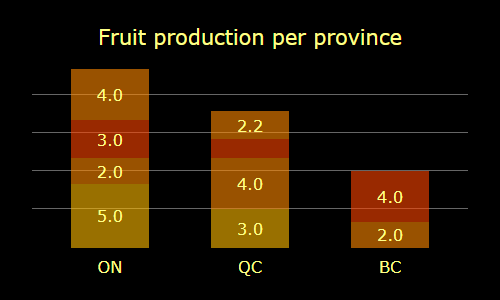
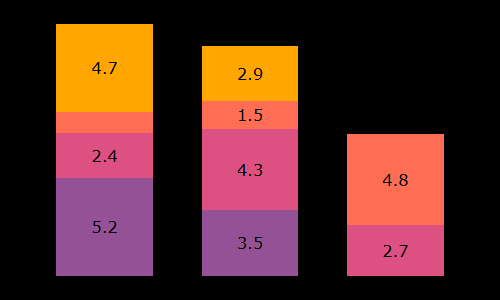
Updated README.md with new images and examples

diff --git a/README.md b/README.md
@@ -47,9 +47,9 @@ Create a one dimensional or two dimensional array of values:
 const data1D = [5.2, 1.3, 10.9, 4.1]
 
 const data2D = [
-  [5, 2, 3, 4],
-  [3, 4, 1.5, 2.2],
-  [0, 2, 4],
+  [5.2, 2.4, 1.1, 4.7],
+  [3.5, 4.3, 1.5, 2.9],
+  [0, 2.7, 4.8],
 ]
 ```
 
@@ -109,9 +109,9 @@ const data1D = [5.2, 1.3, 10.9, 4.1]
 
 ```javascript
 const data2D = [
-  [5, 2, 3, 4],
-  [3, 4, 1.5, 2.2],
-  [0, 2, 4],
+  [5.2, 2.4, 1.1, 4.7],
+  [3.5, 4.3, 1.5, 2.9],
+  [0, 2.7, 4.8],
 ]
 ```
 
@@ -123,8 +123,21 @@ Options can be set using compact dotted keys:
 const options = {
   'chart.width': '500px',
   'chart.height': '300px',
-  'chart.color': '#ff8',
-  ...
+  'chart.color': '#f8ea8c',
+  'chart.background-color': 'black',
+  'chart.font-family': 'Verdana',
+  'title.text': 'Fruit production per province',
+  'yAxisTitle.text': 'Production (millions kg)',
+  'yAxisLabels.precision': 0,
+  'legend.text': ['Apples', 'Pears', 'Prunes', 'Berries'],
+  'xAxisLabels.text': ['ON', 'QC', 'BC', 'AB'],
+  'bars.gaps': ['0.25fr', '0.5fr', '0.25fr'],
+  'bars.colors': ['#955196', '#dd5182', '#ff6e54', '#ffa600'],
+  'values.position': 'center',
+  'values.precision': 1,
+  'values.color': 'black',
+  'legend.color': 'black',
+  'gridlines.interval': 5,
 }
 ```
 
@@ -135,7 +148,7 @@ const options = {
   chart: {
     width: '500px',
     height: '300px',
-    color: '#ff8',
+    color: '#f8ea8c',
     ...
   }
   ...
@@ -147,9 +160,12 @@ The various components of the chart can be toggled to display or not. The bars a
 ```javascript
 const options = {
   ...
+  'title.draw': false,
   'yAxisTitle.draw': false,
   'yAxisLabels.draw': false,
+  'xAxisLabels.draw': false,
   'legend.draw': false,
+  'gridlines.draw': false,
   ...
 }
 ```
